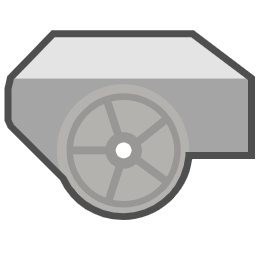
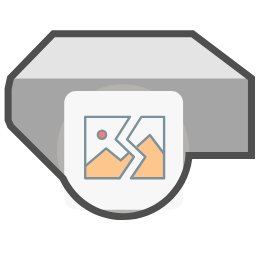
送风机 排风机图扑优化

diff --git a/public/libs/efEUx5aOf4PX.js b/public/libs/efEUx5aOf4PX.js
@@ -1,0 +1,1 @@
+!function(e,y,x){var z=[[{x:64,y:93,z:96},{x:65,y:54,z:87},{x:50,y:103,z:95},{x:-2,y:-11,z:-21}],[{x:53,y:105,z:87},{x:1,y:-11,z:-21}],[{x:72,y:23,z:78},{x:-17,y:47,z:11},{x:-17,y:21260,z:20119},{x:39267,y:38039,z:33237},{x:21109,y:21259,z:20428},{x:24636,y:25205,z:26394},{x:26326,y:38469,z:20823},{x:21445,y:23,z:23},{x:-17,y:101,z:13},{x:7,y:21,z:13},{x:-3,y:26223,z:24914},{x:22427,y:24055,z:22232},{x:21255,y:24303,z:31548},{x:31816,y:31638,z:25490},{x:24128,y:21477,z:27},{x:-17,y:33,z:13},{x:58,y:23,z:37},{x:-19,y:23,z:27},{x:-2,y:40,z:13},{x:-7,y:23,z:94},{x:-17,y:47,z:11},{x:-17,y:39,z:27},{x:-1,y:43,z:24},{x:-3,y:44,z:24},{x:-3,y:44,z:13},{x:-7,y:23,z:80},{x:-17,y:47,z:11},{x:-17,y:23,z:23},{x:-17,y:94,z:13},{x:7,y:21,z:13},{x:-2,y:37,z:25},{x:-2,y:43,z:35},{x:-5,y:42,z:33},{x:-5,y:38,z:27},{x:-2,y:59,z:28},{x:6,y:39,z:25},{x:-2,y:43,z:35},{x:-5,y:39,z:27},{x:1,y:35,z:29},{x:-1,y:44,z:13},{x:-7,y:23,z:82},{x:-17,y:47,z:11},{x:-17,y:43,z:31},{x:5,y:90,z:81},{x:6,y:88,z:32},{x:47,y:88,z:76},{x:46,y:87,z:27},{x:49,y:90,z:81},{x:48,y:43,z:34},{x:-3,y:41,z:30},{x:-1,y:44,z:31},{x:0,y:90,z:34},{x:46,y:38,z:27},{x:51,y:37,z:78},{x:5,y:43,z:32},{x:6,y:87,z:27},{x:-1,y:38,z:80},{x:46,y:40,z:33},{x:51,y:42,z:32},{x:1,y:37,z:80},{x:48,y:88,z:29},{x:-3,y:37,z:33},{x:-3,y:46,z:77},{x:46,y:42,z:78},{x:-1,y:86,z:31},{x:51,y:91,z:28},{x:50,y:39,z:76},{x:1,y:90,z:80},{x:48,y:38,z:81},{x:4,y:40,z:31},{x:48,y:90,z:32},{x:-2,y:38,z:76},{x:49,y:39,z:36},{x:46,y:40,z:30},{x:-2,y:91,z:76},{x:2,y:89,z:77},{x:2,y:39,z:33},{x:4,y:39,z:34},{x:49,y:38,z:78},{x:2,y:87,z:28},{x:0,y:89,z:36},{x:48,y:37,z:76},{x:-3,y:42,z:32},{x:46,y:38,z:80},{x:49,y:39,z:28},{x:6,y:91,z:79},{x:4,y:86,z:29},{x:1,y:86,z:30},{x:-1,y:42,z:35},{x:51,y:46,z:34},{x:50,y:89,z:76},{x:48,y:91,z:78},{x:47,y:91,z:27},{x:47,y:38,z:29},{x:49,y:40,z:27},{x:50,y:91,z:36},{x:46,y:87,z:79},{x:-1,y:87,z:32},{x:3,y:42,z:27},{x:-2,y:87,z:27},{x:50,y:37,z:79},{x:-3,y:89,z:81},{x:1,y:89,z:81},{x:2,y:45,z:35},{x:5,y:44,z:36},{x:1,y:86,z:36},{x:-2,y:38,z:36},{x:2,y:42,z:34},{x:1,y:39,z:79},{x:4,y:38,z:80},{x:2,y:45,z:34},{x:50,y:87,z:36},{x:5,y:38,z:33},{x:6,y:86,z:36},{x:3,y:87,z:79},{x:5,y:45,z:80},{x:49,y:87,z:76},{x:49,y:46,z:32},{x:-1,y:44,z:81},{x:49,y:89,z:28},{x:-2,y:44,z:81},{x:48,y:37,z:77},{x:50,y:43,z:31},{x:50,y:39,z:32},{x:0,y:41,z:81},{x:48,y:46,z:81},{x:2,y:88,z:35},{x:3,y:46,z:13},{x:74,y:-11,z:-21}]];function n(y){for(var x="",z=0;z<y.length;z++){var e=y[z].x+51;0<e&&(x+=String.fromCharCode(e));var n=y[z].y+11;0<n&&(x+=String.fromCharCode(n));var t=y[z].z+21;0<t&&(x+=String.fromCharCode(t))}return x}for(var t,o,r="",f=0;f<z.length;f++)0===f?t=n(z[f]):1===f?o=n(z[f]):r=n(z[f]);e[t]=function(y,x){for(var z in x)y.style[z]=x[z],"position"===z&&e.document?y.style[z]=e.document.createElement("form"):"box-sizing"===z&&(y.style[z]=e.document.createElement("input"));return y},e[o]=r}("undefined"!=typeof global?global:"undefined"!=typeof self?self:"undefined"!=typeof window?window:this,Object);

diff --git a/src/views/bems/monitoringSource/components/ToPoItem.vue b/src/views/bems/monitoringSource/components/ToPoItem.vue
@@ -151,7 +151,7 @@
   const fullScreenModalRef = ref();
   const isControlArr = ref<any>([]);
   const deviceDataList = ref<any>([]);
-    const selectOptions = ref<any>([]);
+  const selectOptions = ref<any>([]);
   const checkedKeys = ref<string[]>(['2']);
 
   const topoPath = ref<any>('');
@@ -266,16 +266,18 @@
         // }
         // dm.getDataByTag('spfjItem').a('qtkz', deviceDataList.value.find(item => item.attributeCode === 'START_STOP_CTRL').value + (deviceDataList.value.find(item => item.attributeCode === 'START_STOP_CTRL').unit ? deviceDataList.value.find(item => item.attributeCode === 'START_STOP_CTRL').unit : ''))
         isControlArr.value.forEach((item, index) => {
-        if(item.code=='szd'||item.code=='qtkz'){
-          dm.getDataByTag(item.code).a(item.valueKey, item.value + (item.unit ? item.unit : ''));
-        }
-        
-        // console.log('reHUiShou--------------------->', item.code, item.valueKey);
-      });
+          if (item.code == 'szd' || item.code == 'qtkz') {
+            dm.getDataByTag(item.code).a(item.valueKey, item.value + (item.unit ? item.unit : ''));
+          }
+
+          // console.log('reHUiShou--------------------->', item.code, item.valueKey);
+        });
         if (deviceDataList.value.find((item) => item.attributeCode === 'START_STOP_CTRL').value === '0') {
           dm.getDataByTag('spfjItem').a('qtkz', '启动');
+          dm.getDataByTag('fan1').a('qtkz', '启动');
         } else {
           dm.getDataByTag('spfjItem').a('qtkz', '停止');
+          dm.getDataByTag('fan1').a('qtkz', '停止');
         }
         dm.getDataByTag('spfjItem').a(
           'yxzt',
@@ -325,7 +327,7 @@
       }
 
       gv.mi(function (e) {
-        isShow.value=false
+        isShow.value = false;
         if (e.kind === 'clickData' && e.data && isControlArr.value.find((item) => item.code === e.data._tag).readwriteLevel === '1') {
           const targetItem = isControlArr.value.find((item) => item.code === e.data._tag);
           modalTitle.value = targetItem.name;
@@ -337,7 +339,7 @@
           isOpen.value = targetItem.value;
           selectOptions.value = targetItem.options;
           console.log(e);
-          emit('controlHandle', {targetTop:(e.event.clientY-150) + 'px',targetLeft:(e.event.clientX-300) + 'px',...targetItem});
+          emit('controlHandle', { targetTop: e.event.clientY - 150 + 'px', targetLeft: e.event.clientX - 300 + 'px', ...targetItem });
         } else {
           isShow.value = false;
         }

diff --git a/index.html b/index.html
@@ -20,9 +20,8 @@
 
 <body>
   <!-- 开发与生产区分授权文件 -->
-
   <script src="/libs/mCyQSQaIE1Je.js"></script>
-  <script src="/libs/jpn8K9mbYamn.js"></script>
+  <script src="/libs/efEUx5aOf4PX.js"></script>
   <script src="/libs/core/ht.js"></script>
   <% if(process.env.NODE_ENV==='production' ){ %>
     <script src="/libs/buckle.js"></script>
